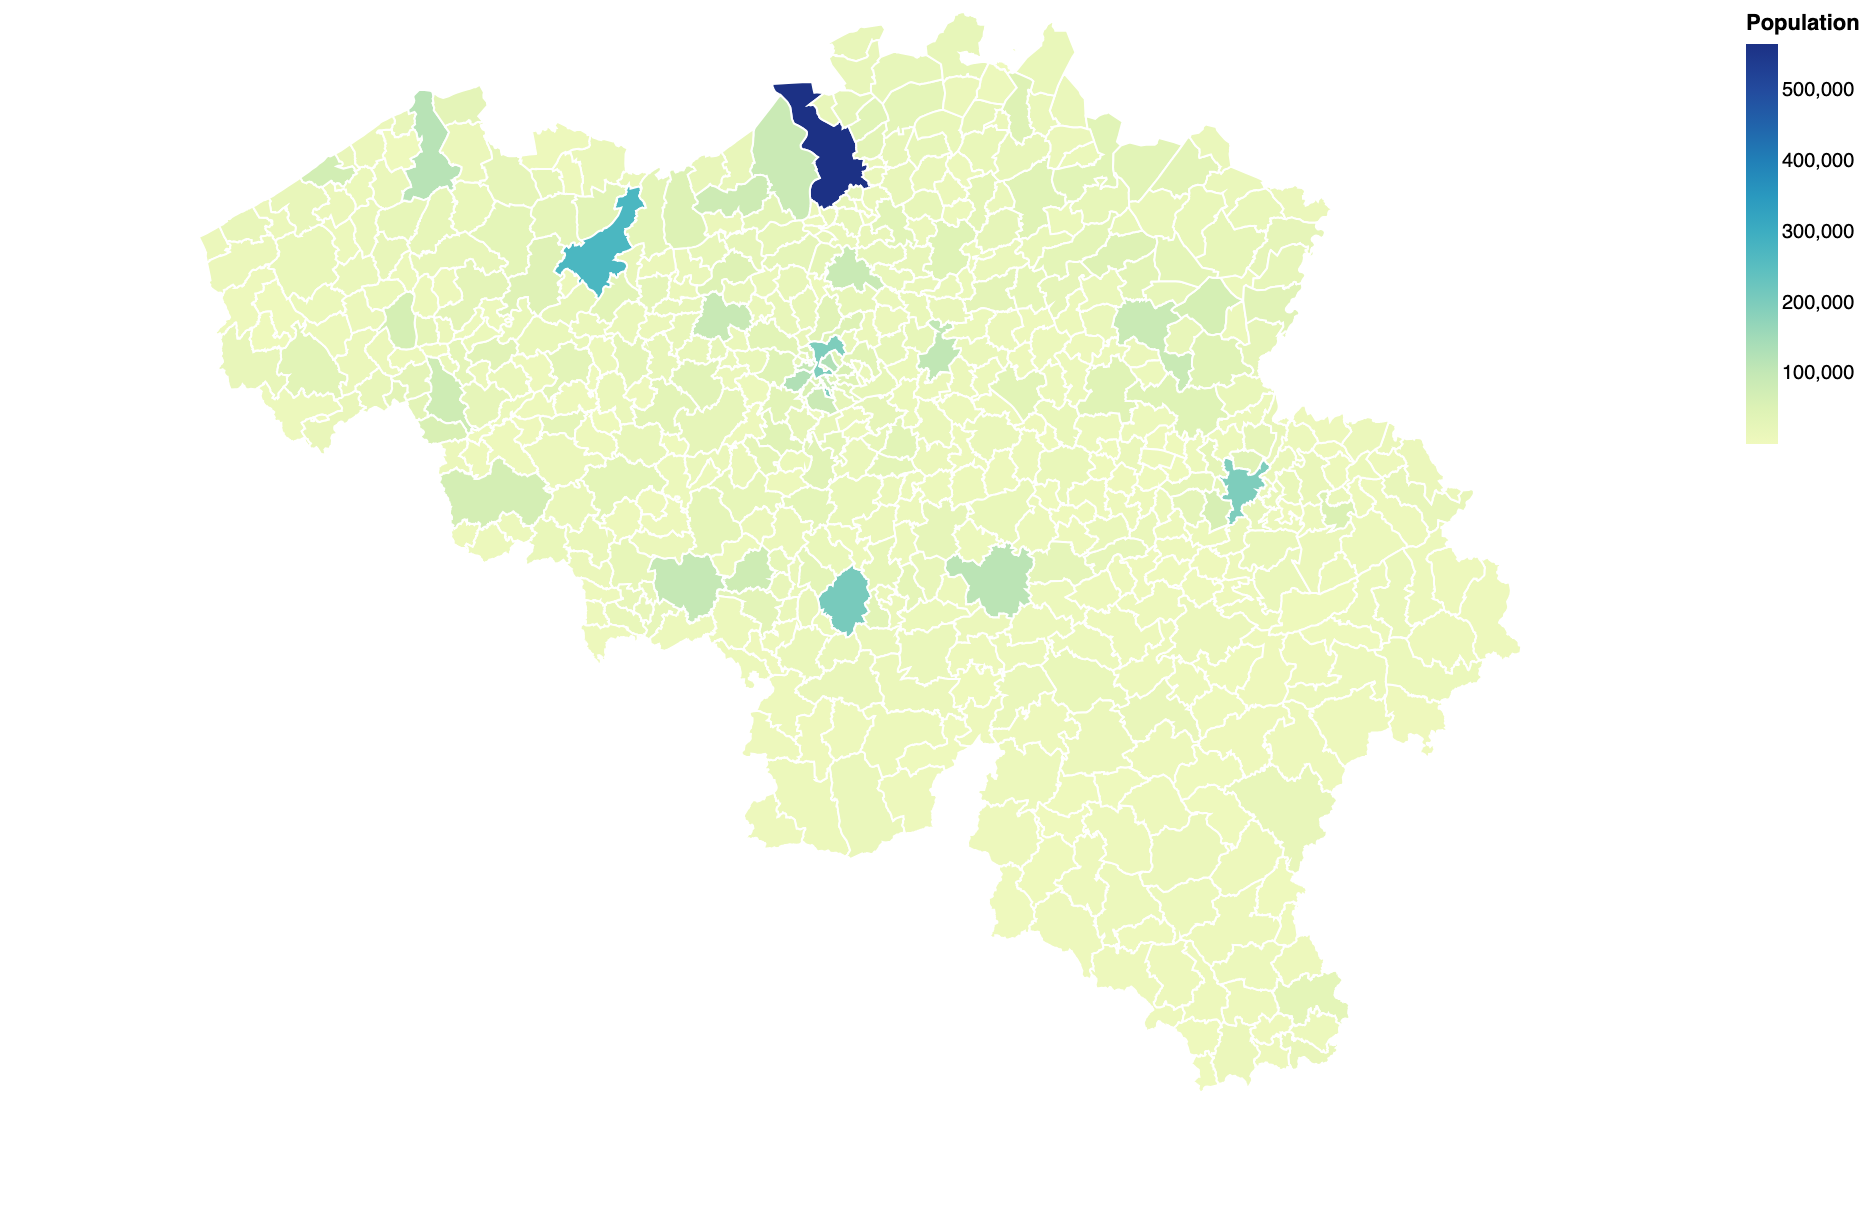
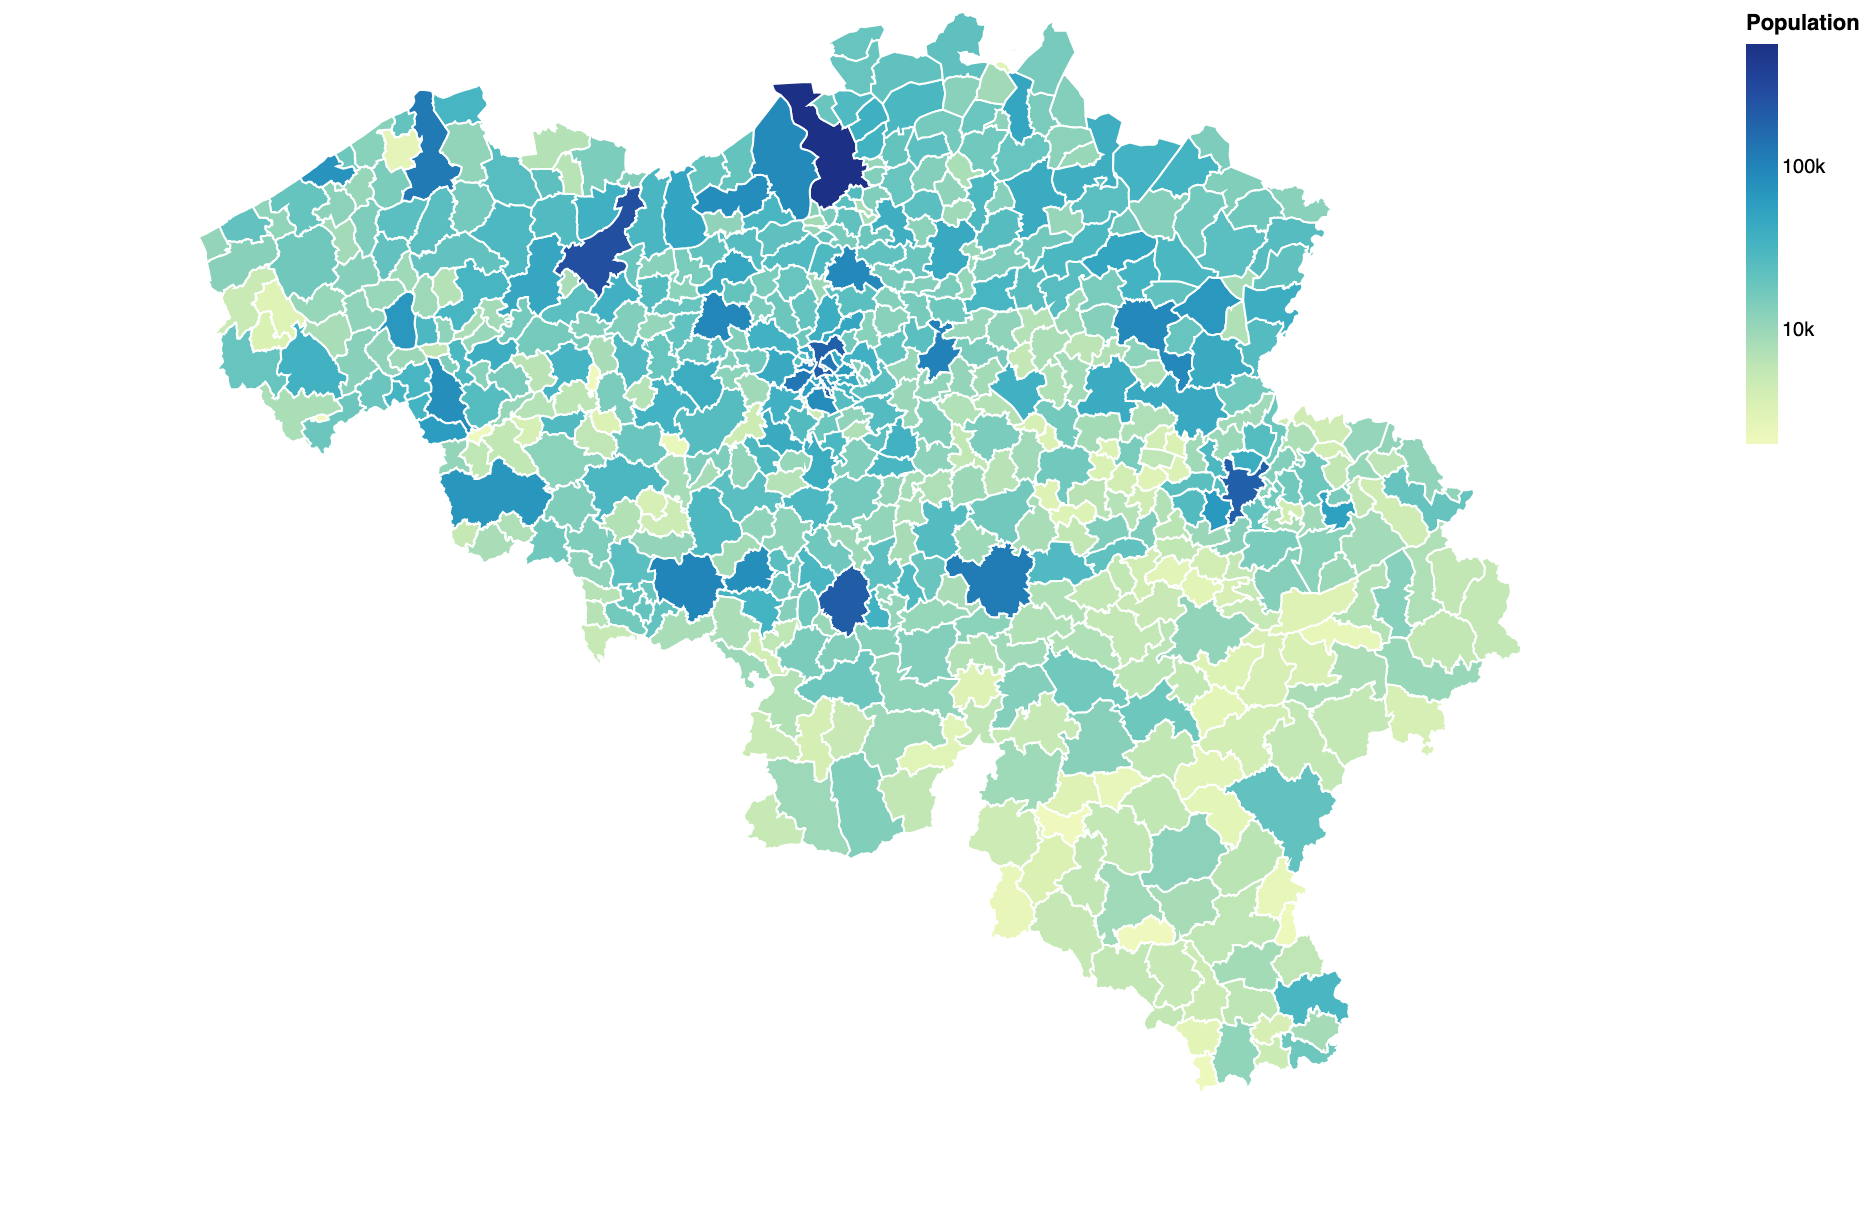
add update callout to readme and use log color scale in example image

diff --git a/readme.md b/readme.md
@@ -1,4 +1,8 @@
 # Topojson file of Belgian municipalities, arrondissements and provinces
+
+> [!NOTE]
+> **Updated in August 2026.** The map is now generated from Statbel open data and reflects the municipal mergers of 1 January 2025 (581 → 565 municipalities, with new NIS codes for the merged municipalities), with population figures of 01/01/2026. The previous version is still available at the [v2020 tag](https://github.com/bmesuere/belgium-topojson/tree/v2020).
+
 The repository contains a topojson file (`belgium.json`) of the Belgian municipalities, arrondissements and provinces. The boundaries reflect the administrative situation on **01/01/2025** (565 municipalities, after the 2025 municipal mergers). These objects and properties are available:
 
 - municipalities
